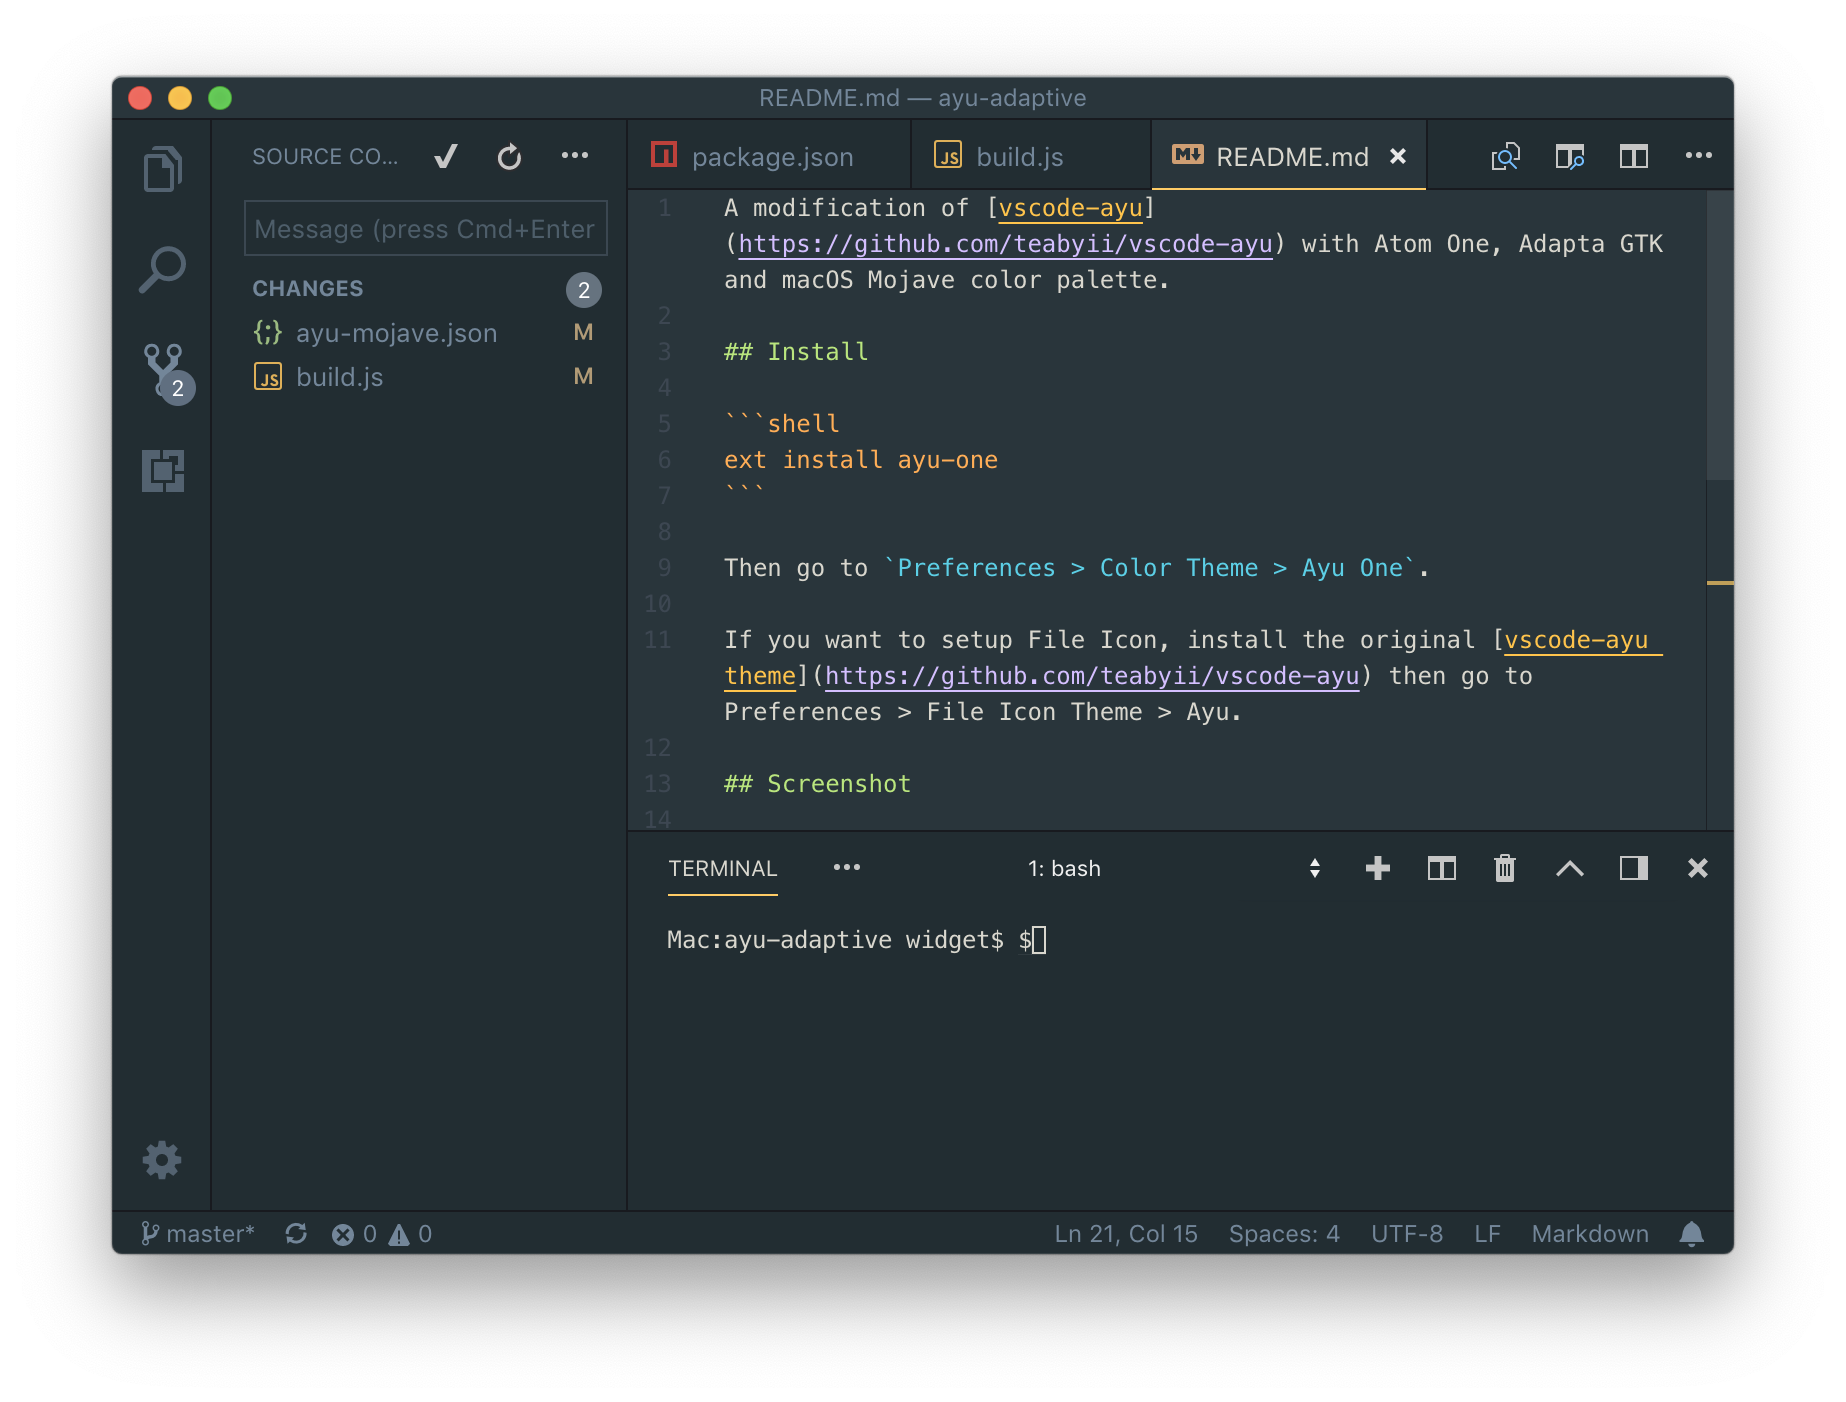
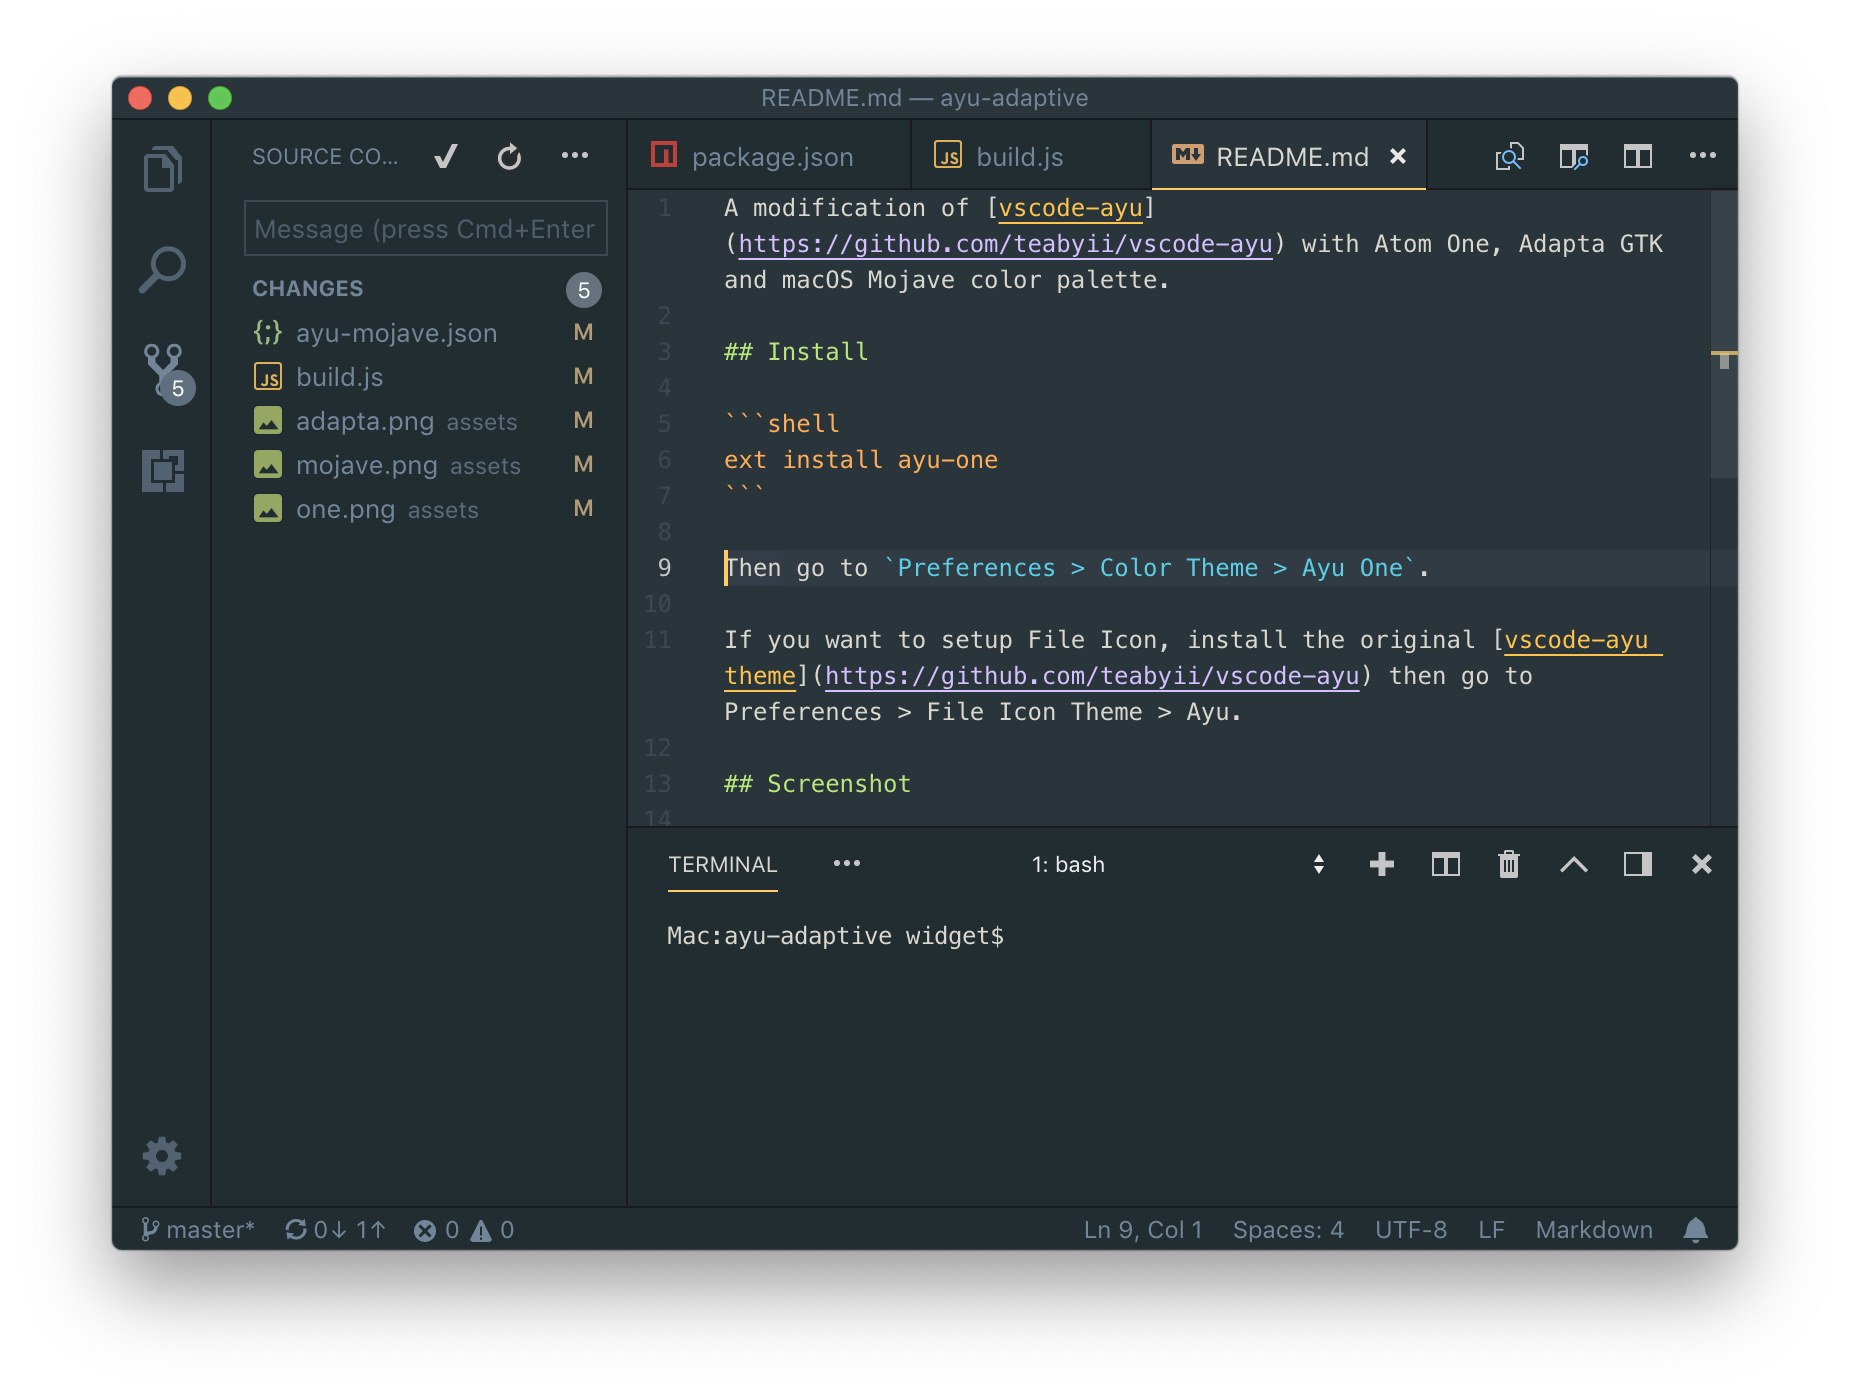
mojave terminal color

diff --git a/build.js b/build.js
@@ -46,8 +46,8 @@ const mojaveColors = {
         'bg': '#373839',
         'gd': '#181A1F'
     },
-    'panel.background': '#2e2e30',
-    'terminal.background': '#2e2e30',
+    'panel.background': '#333335',
+    'terminal.background': '#333335',
     // 'sideBar.background': '#333335',
     // 'activityBar.background': '#333335',
     // 'statusBar.background': '#333335',
